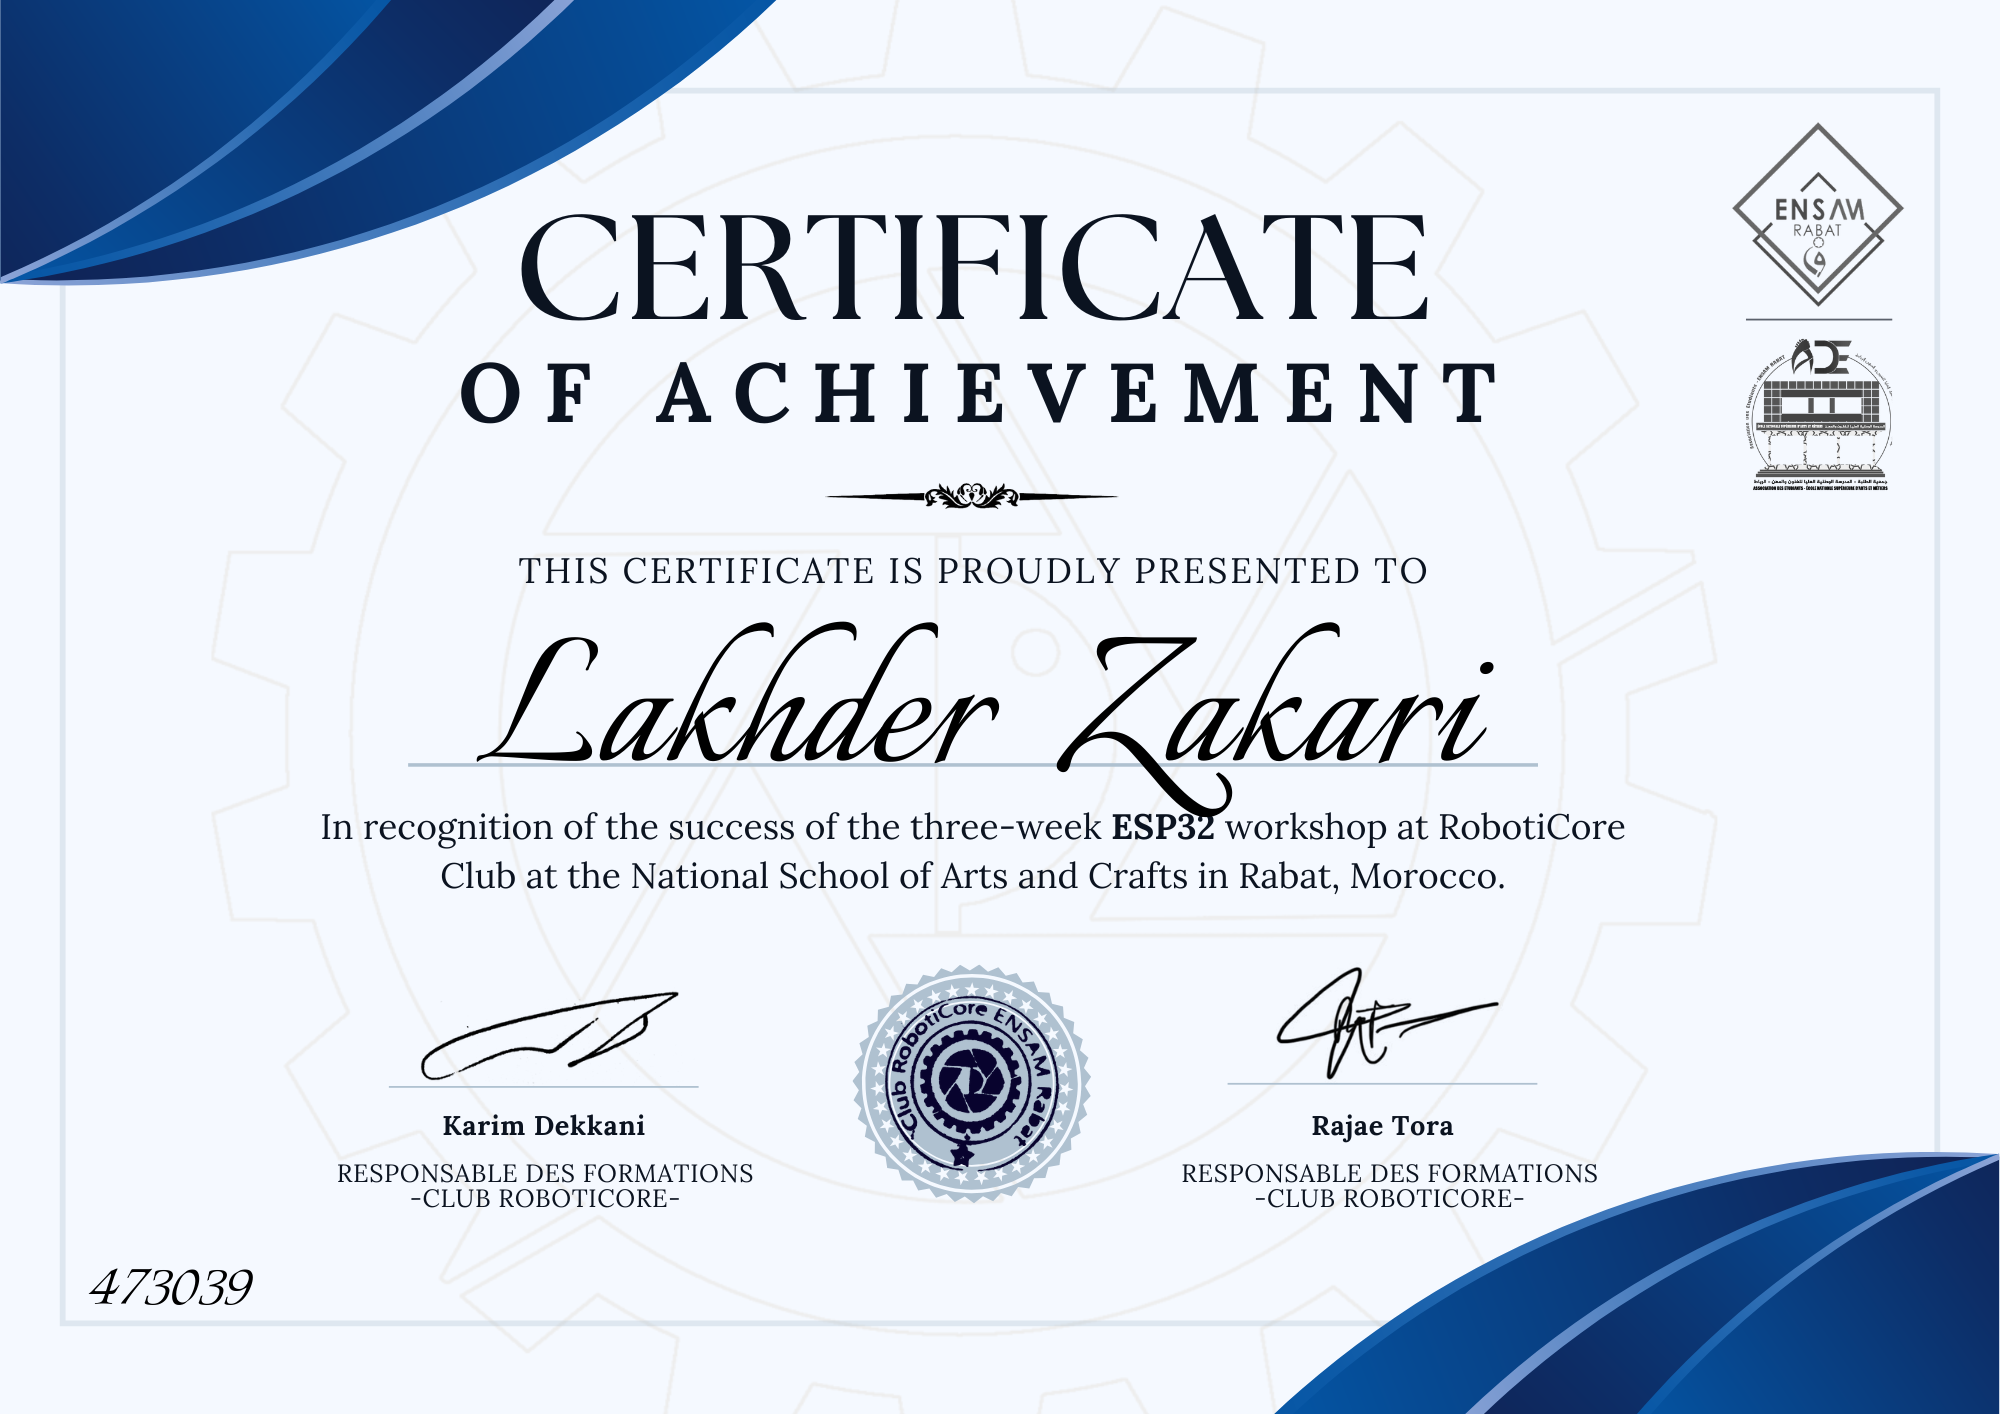
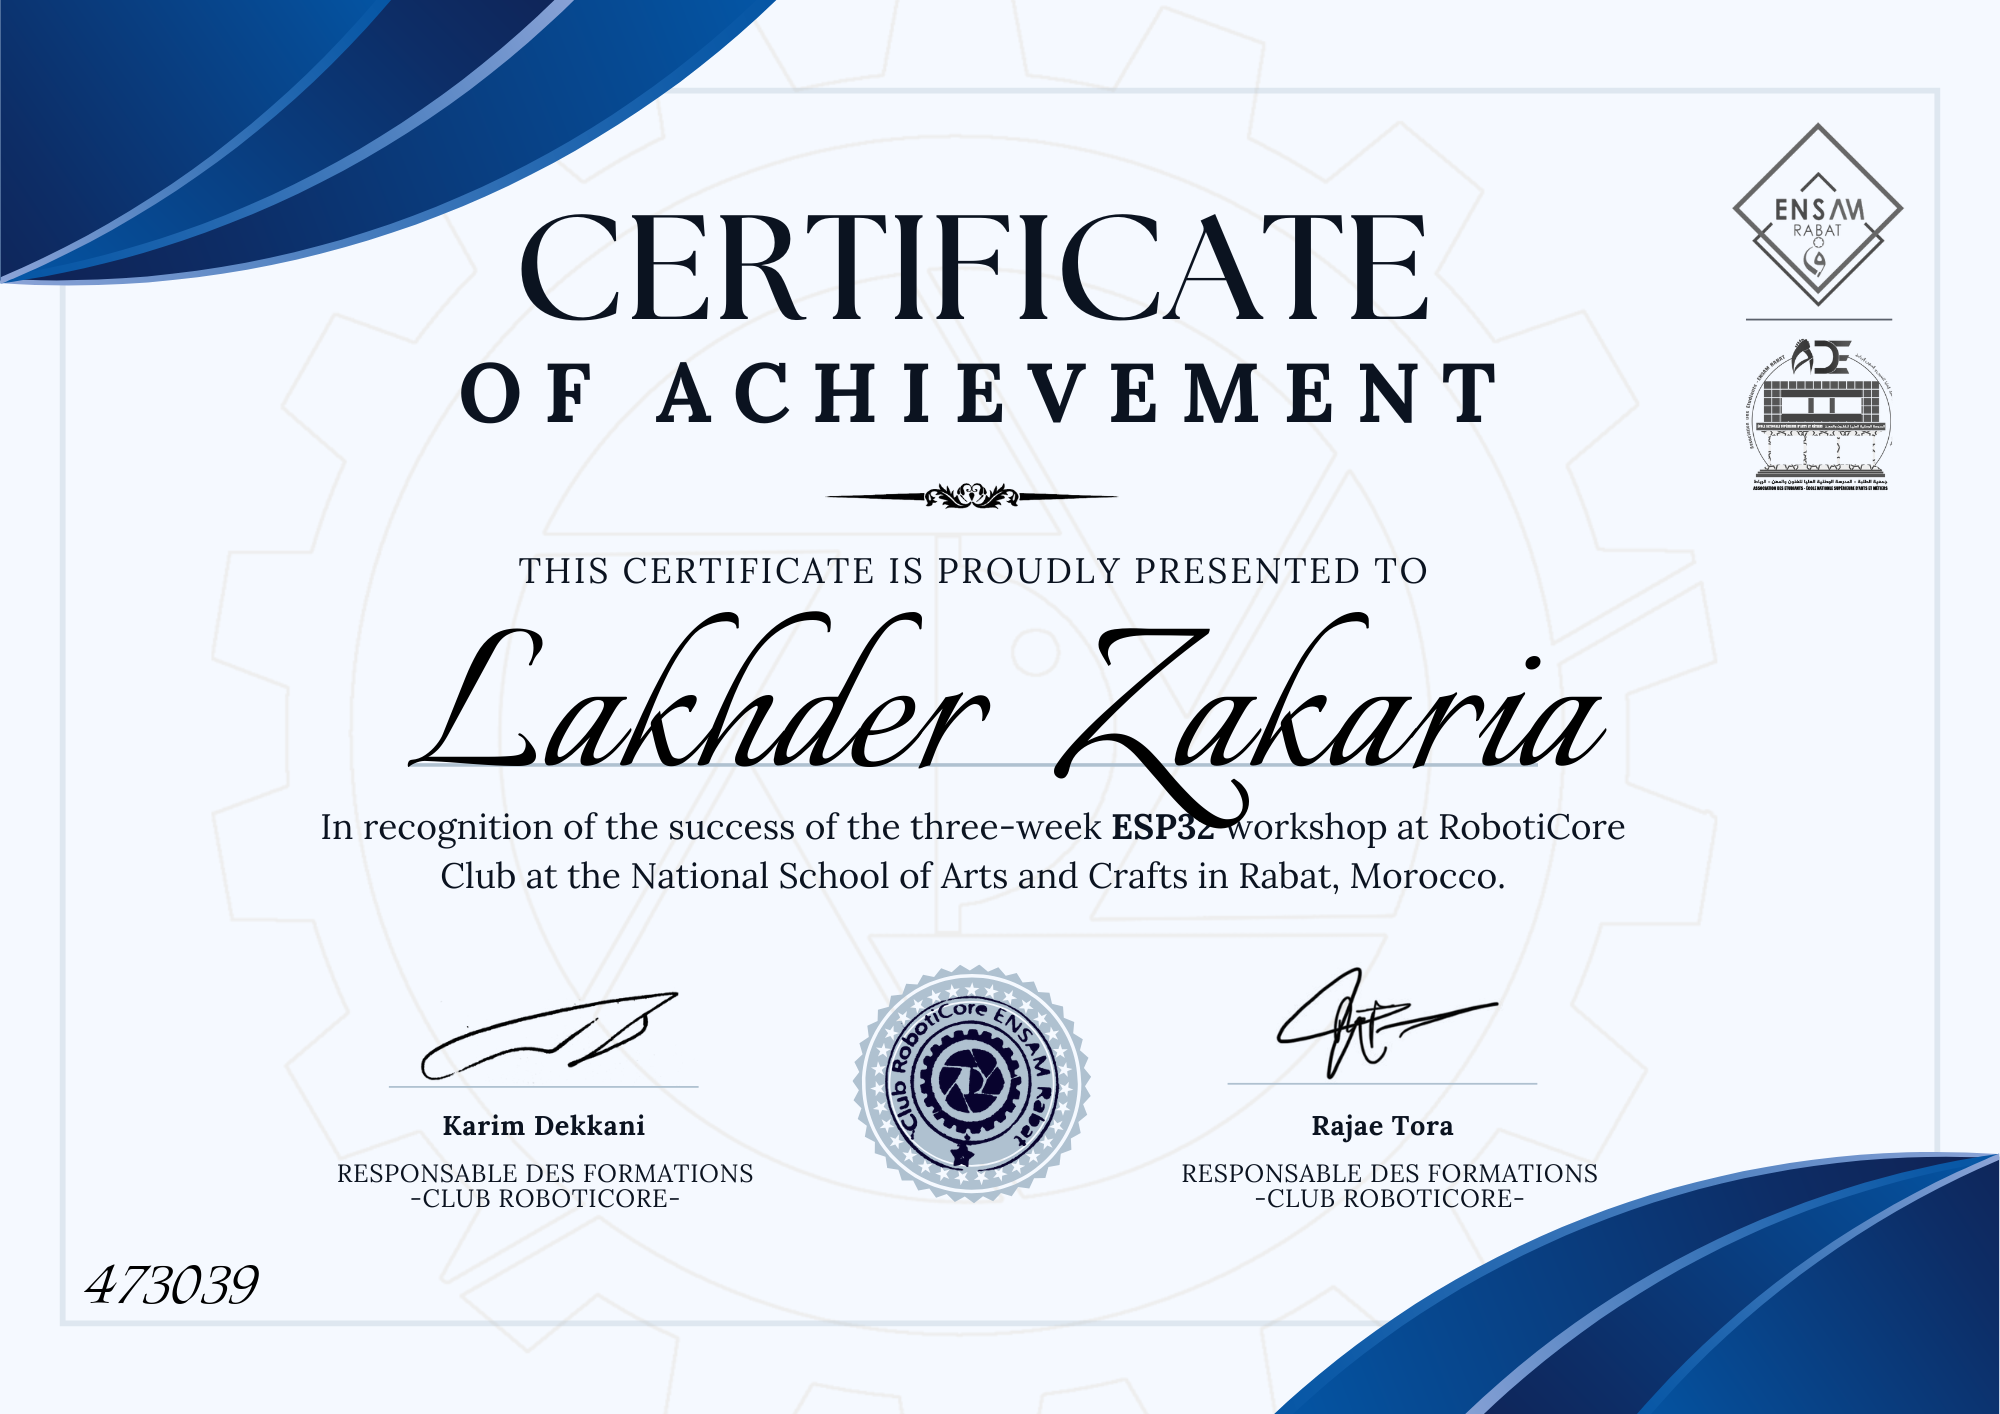
changes

diff --git a/js/certificate-verification.js b/js/certificate-verification.js
@@ -9,6 +9,7 @@ document.addEventListener('DOMContentLoaded', function () {
 
     '625298': { message: 'Certificate for Lmhyeb is Verified', imageUrl: 'img/Certs/625298.png' },
     '624297': { message: 'Certificate for El Yaagoubi Bouthayna is Verified', imageUrl: 'img/Certs/624297.png' },
+    '624299': { message: 'Certificate for El Yaagoubi Bouthayna is Verified', imageUrl: 'img/Certs/624299.png' },
     '157963': { message: 'Certificate for Abdoullah Alalgui is Verified', imageUrl: 'img/Certs/157963.png' },
     '565263': { message: 'Certificate for Mehdi Bahlaoui is Verified', imageUrl: 'img/Certs/565263.png' },
     '867735': { message: 'Certificate for Fenzari Nihale is Verified', imageUrl: 'img/Certs/867735.png' },
@@ -29,7 +30,7 @@ document.addEventListener('DOMContentLoaded', function () {
     '392007': { message: 'Certificate for Hiba Zaghou is Verified', imageUrl: 'img/Certs/392007.png' },
     '646092': { message: 'Certificate for Elardi Wiam is Verified', imageUrl: 'img/Certs/646092.png' },
     '609296': { message: 'Certificate for Eddabagh Douae is Verified', imageUrl: 'img/Certs/609296.png' },
-    '473039': { message: 'Certificate for Lakhder Zakari is Verified', imageUrl: 'img/Certs/473039.png' },
+    '473039': { message: 'Certificate for Lakhder Zakaria is Verified', imageUrl: 'img/Certs/473039.png' },
     '744259': { message: 'Certificate for Belarbi Zakariae is Verified', imageUrl: 'img/Certs/744259.png' },
     '413620': { message: 'Certificate for Soulaimane Marsli is Verified', imageUrl: 'img/Certs/413620.png' },
     '315574': { message: 'Certificate for Drissi Adam is Verified', imageUrl: 'img/Certs/315574.png' },
@@ -55,12 +56,17 @@ document.addEventListener('DOMContentLoaded', function () {
     '725582': { message: 'Certificate for Dafi Imane is Verified', imageUrl: 'img/Certs/725582.png' },
     '441788': { message: 'Certificate for Er-Radouany Mounir is Verified', imageUrl: 'img/Certs/441788.png' },
     '648338': { message: 'Certificate for El Machkour Hiba is Verified', imageUrl: 'img/Certs/648338.png' },
+    '648339': { message: 'Certificate for El Machkour Hiba is Verified', imageUrl: 'img/Certs/648339.png' },
     '210821': { message: 'Certificate for El Bahja Yasser is Verified', imageUrl: 'img/Certs/210821.png' },
     '459680': { message: 'Certificate for Ninia Houssam is Verified', imageUrl: 'img/Certs/459680.png' },
     '901197': { message: 'Certificate for Elazzouzi Chadia is Verified', imageUrl: 'img/Certs/901197.png' },
     '356746': { message: 'Certificate for Hanane Ed-Diaf is Verified', imageUrl: 'img/Certs/356746.png' },
     '475839': { message: 'Certificate for Farhi Mohammed Amine is Verified', imageUrl: 'img/Certs/475839.png' },
-    '668749': { message: 'Certificate for Fatima Khardouli is Verified', imageUrl: 'img/Certs/668749.png' }
+    '668749': { message: 'Certificate for Fatima Khardouli is Verified', imageUrl: 'img/Certs/668749.png' },
+    '668745': { message: 'Certificate for Samia El Hadiouia is Verified', imageUrl: 'img/Certs/668745.png' },
+    '564564': { message: 'Certificate for Dekkani Karim is Verified', imageUrl: 'img/Certs/564564.png' },
+    '387295': { message: 'Certificate for Rajae Tora is Verified', imageUrl: 'img/Certs/387295.png' }
+
     };
 
     // Verify if the ID exists in the validCertificates list
